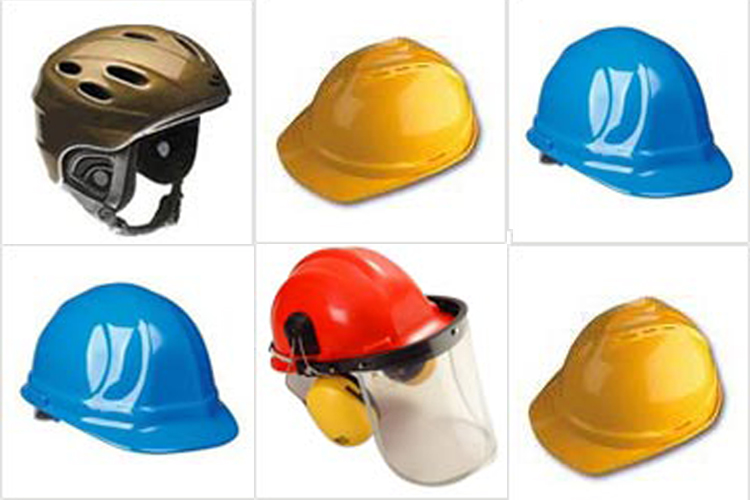
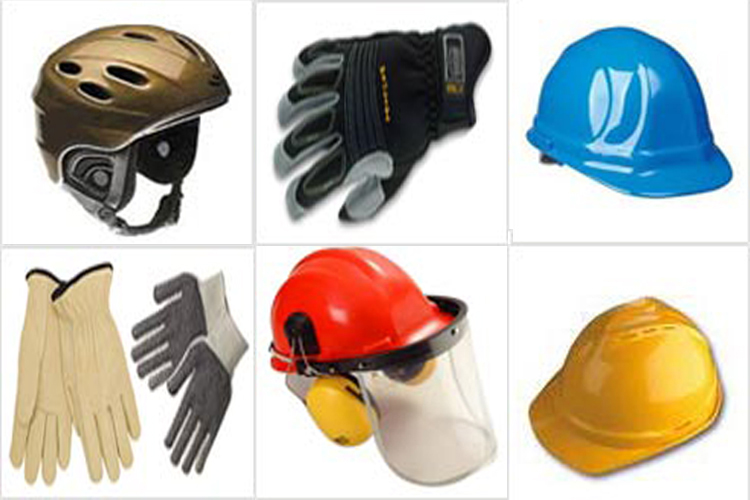
new upd

Changed region(s): [[0.0, 0.0, 0.6747, 0.99]]

diff --git a/firesafeengineers/index.html b/firesafeengineers/index.html
@@ -95,8 +95,8 @@
     <div id="social-left">
         <div style="margin-left:30%">
         <div class="mylogo">
-        <a href=""><i><img src="fb.png"></i></a></div>
-        <div class="mylogo"><a href=""><i><img src="twit.png"></i></a></div>
+        <a href="https://web.facebook.com/Engineersfiresafe/?fref=ts"><i><img src="fb.png"></i></a></div>
+        <div class="mylogo"><a href="https://twitter.com/search?q=firesafeengineers&src=typd"><i><img src="twit.png"></i></a></div>
         <div class="mylogo"><a href=""><i><img src="ln.png"></i></a></div>
         <div class="mylogo"><a href=""><i><img src="g.png"></i></a></div>
         </div>
@@ -108,8 +108,8 @@
     <div id="social-right">
    <div style="margin-left:30%">
         <div class="mylogo">
-        <a href=""><i><img src="fb.png"></i></a></div>
-        <div class="mylogo"><a href=""><i><img src="twit.png"></i></a></div>
+        <a href="https://web.facebook.com/Engineersfiresafe/?fref=ts"><i><img src="fb.png"></i></a></div>
+        <div class="mylogo"><a href="https://twitter.com/search?q=firesafeengineers&src=typd"><i><img src="twit.png"></i></a></div>
         <div class="mylogo"><a href=""><i><img src="ln.png"></i></a></div>
         <div class="mylogo"><a href=""><i><img src="g.png"></i></a></div>
         </div>
@@ -213,12 +213,12 @@
                 
                 <h3 style="font-size:32px;">At a glance</h3>
                 
-                <div class="one_third wow fadeInUp animated" data-wow-offset="120" data-wow-duration="1s" style="visibility: visible;-webkit-animation-duration: 1s; -moz-animation-duration: 1s; animation-duration: 1s;">
+                <div class="one_third_last wow fadeInUp animated" data-wow-offset="120" data-wow-duration="1s" style="visibility: visible;-webkit-animation-duration: 1s; -moz-animation-duration: 1s; animation-duration: 1s;">
                         <h4>FOUNDER/CEO</h4>
                             <h5>Naushad Ahmed</h5>
                 </div>
                 
-                <div class="one_third wow fadeInUp animated" data-wow-offset="120" data-wow-duration="1s" data-wow-delay="0.2s" style="visibility: visible;-webkit-animation-duration: 1s; -moz-animation-duration: 1s; animation-duration: 1s;-webkit-animation-delay: 0.2s; -moz-animation-delay: 0.2s; animation-delay: 0.2s;">
+                <div class="one_third_last wow fadeInUp animated" data-wow-offset="120" data-wow-duration="1s" data-wow-delay="0.2s" style="visibility: visible;-webkit-animation-duration: 1s; -moz-animation-duration: 1s; animation-duration: 1s;-webkit-animation-delay: 0.2s; -moz-animation-delay: 0.2s; animation-delay: 0.2s;">
                         <h4>REACH HERE</h4>
                             <h5>Julena, New Delhi-110025</h5>
                 </div>
@@ -601,8 +601,8 @@ Firesafe Engineers provides fire safety solutions and equipments for business in
                      <div class="one_third wow fadeInLeftBig animated" data-wow-offset="80" data-wow-duration="2s" style="visibility: visible;-webkit-animation-duration: 2s; -moz-animation-duration: 2s; animation-duration: 2s;">
                         <div class="infopanel">
                             <a href="./fire-safe-engineers/product9.jpg" class="fancybox" rel="group2"><div class="eye"><img src="./fire-safe-engineers/product9.jpg" alt="Portfolio 5"></div></a>
-                            <h5>Head Protection</h5>
-                            <p>Protection of head by injuries when fighting with the fire emergency is a very important factor. By a single injury can handicap an employee for life. The big number of workers was injured while performing their normal work at their job site.<br><br><br><br></p>
+                            <h5>Head & Hand Protection</h5>
+                            <p>Protection of head by injuries when fighting with the fire emergency is a very important factor. By a single injury can handicap an employee for life. The big number of workers was injured while performing their normal work at their job site.<br><br><br></p>
                         </div>
                     </div>
                     <!-- new -->

diff --git a/firesafeengineers/fire-safe-engineers/main.css b/firesafeengineers/fire-safe-engineers/main.css
@@ -680,7 +680,7 @@ h5 {
 }
 .our-values{
     width: 20%;
-    height: auto;
+    height: 200px;
     margin: 3.5%;
     border-radius: 2px;
     background-color: #792E28;
@@ -689,6 +689,7 @@ h5 {
     color: white;
     padding: 1%;
     text-align: center;
+    overflow: hidden;
 }
 .our-values:hover{
     background-color: black;
@@ -704,8 +705,10 @@ h5 {
     float: left;
     margin-bottom: 5%;
     width: 22%;
+    height:500px;
     margin-right: 3.5%;
     text-align: left;
+    overflow: hidden;
 }
 .one_third_new {
     float: left;
@@ -1234,6 +1237,12 @@ Responsive Styling
         font-size: 15px;
         letter-spacing: 1px;
         word-spacing: 2px;
+    }
+}
+@media all and (max-width:480px){
+    .our-values{
+        height:200px;
+        overflow: hidden;
     }
 }
 
